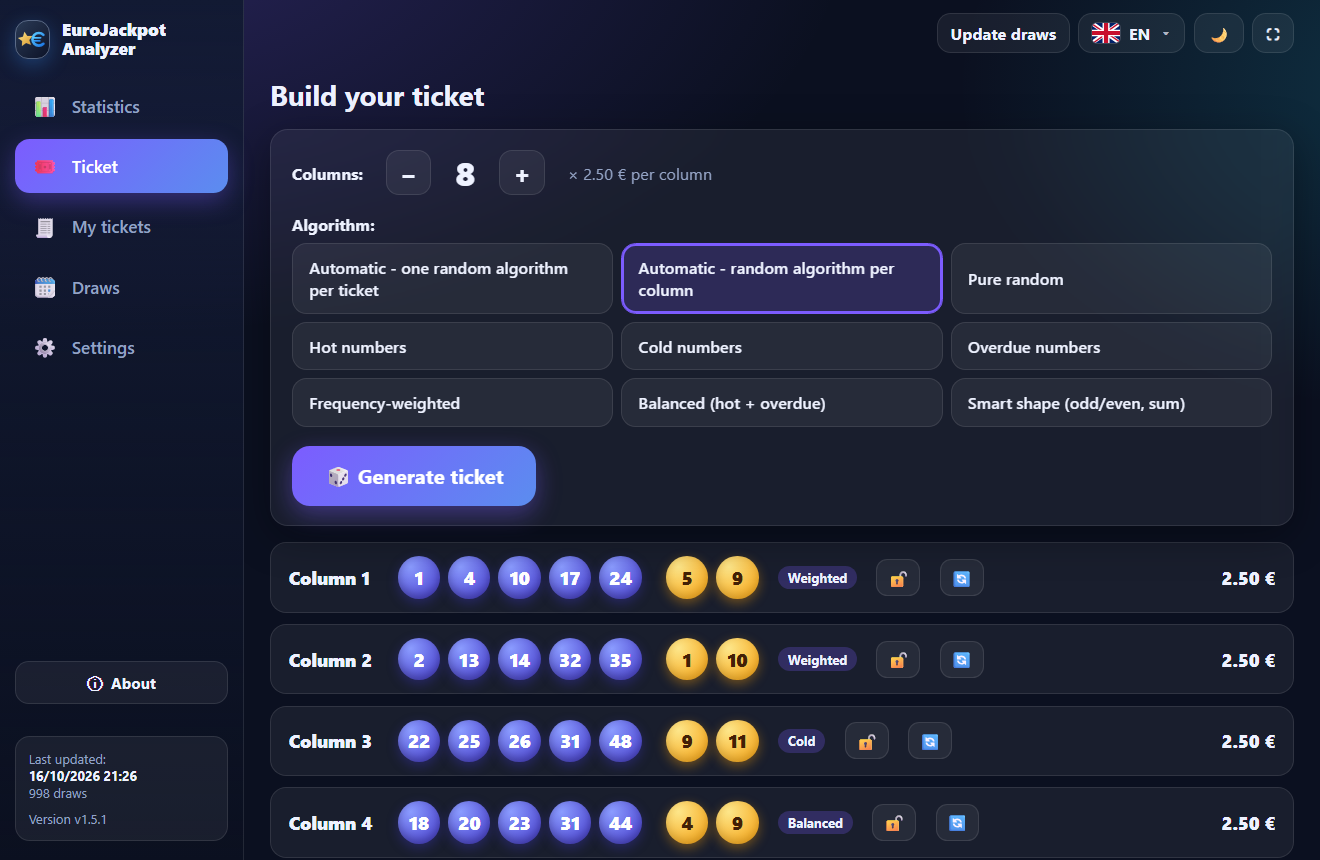
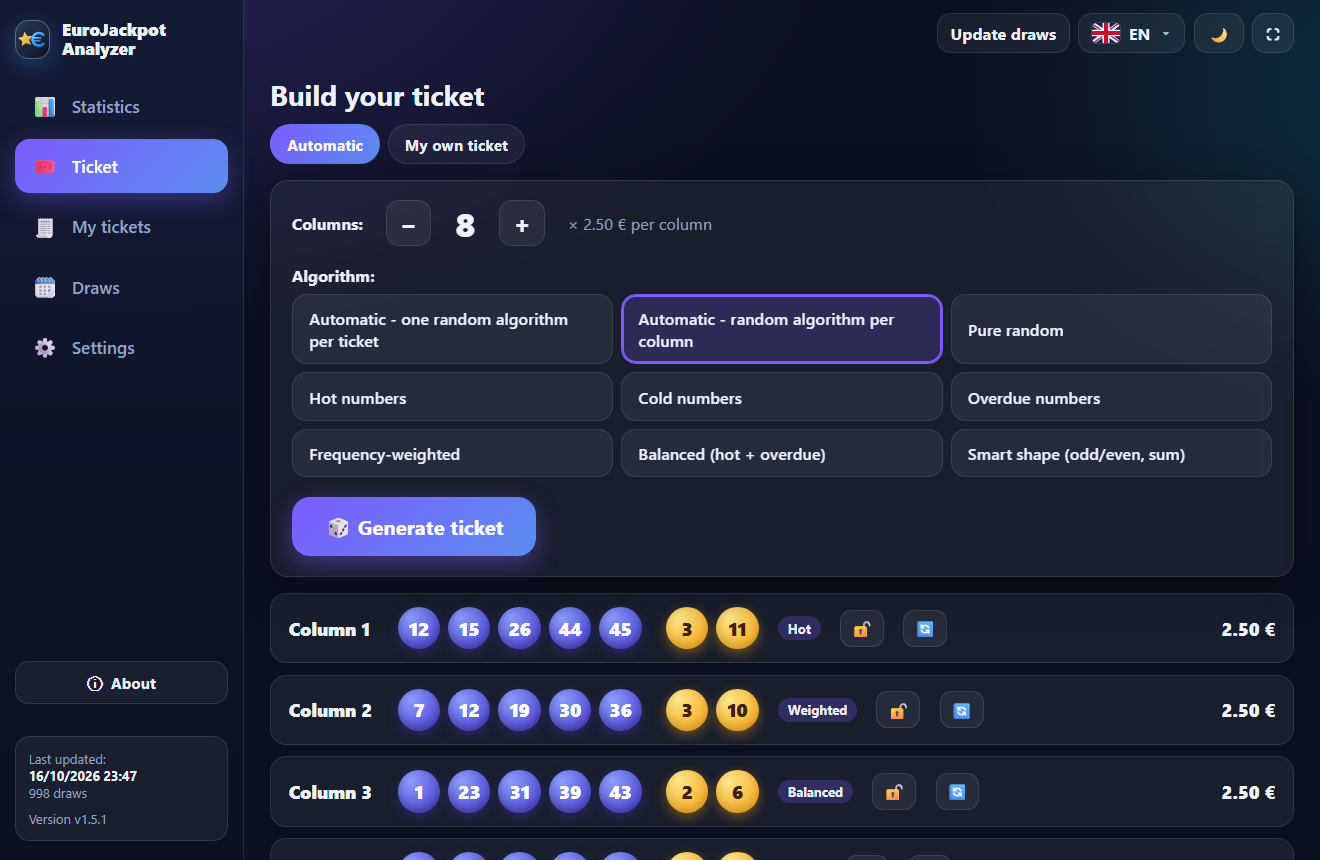
1.6.0: own ticket, analysis, ticket sync, Android in-app update; docs and screenshots

diff --git a/tools/sync_ha_core.py b/tools/sync_ha_core.py
@@ -1,4 +1,4 @@
-"""Copy the pure-Python core (rules, stats, generators) and a compact numbers-only history into the
+"""Copy the pure-Python core (rules, stats, generators, evaluation, analysis, ticket sync) and a compact numbers-only history into the
 Home Assistant integration repo, so both projects use identical logic.
 
 Usage:  python -m tools.sync_ha_core C:\\path\\to\\EuroJackpot-Analyzer-HA
@@ -11,7 +11,7 @@ import sys
 from pathlib import Path
 
 APP = Path(__file__).resolve().parent.parent / "app"
-CORE_FILES = ["rules.py", "stats.py", "generators.py"]
+CORE_FILES = ["rules.py", "stats.py", "generators.py", "evaluation.py", "analysis.py", "ticket_sync.py", "tls.py"]
 
 
 def main(ha_repo: str) -> None:
@@ -25,7 +25,13 @@ def main(ha_repo: str) -> None:
         (core / name).write_text("# Vendored copy of EuroJackpot-Analyzer/app/" + name + " - edit it there.\n" + text,
                                  encoding="utf-8")
     seed = json.loads((APP / "seed" / "draws.json").read_text(encoding="utf-8"))
-    compact = [[d["date"], d["main"], d["euro"]] for d in seed["draws"]]
+    compact = []
+    for d in seed["draws"]:
+        row = [d["date"], d["main"], d["euro"]]
+        prizes = {c["tier"]: c["prize"] for c in (d.get("details") or {}).get("classes", []) if c.get("prize", 0) > 0}
+        if prizes:                       # the prize per class: needed for the ticket results and the analysis
+            row.append(prizes)
+        compact.append(row)
     out = comp / "data" / "draws.json"
     out.parent.mkdir(parents=True, exist_ok=True)
     out.write_text(json.dumps({"version": 1, "draws": compact}, separators=(",", ":")), encoding="utf-8")

diff --git a/app/version.py b/app/version.py
@@ -1,7 +1,7 @@
 import os
 
 # EJP_VERSION_OVERRIDE: testing/docs only (e.g. pretend to be an older version to see the update screen)
-__version__ = os.environ.get("EJP_VERSION_OVERRIDE") or "1.5.1"
+__version__ = os.environ.get("EJP_VERSION_OVERRIDE") or "1.6.0"
 APP_NAME = "EuroJackpot Analyzer"
 # GitHub "owner/name" used for update checks (GitHub Releases). Empty = update check disabled.
 GITHUB_REPO = "VeZReVouLiS/EuroJackpot-Analyzer"

diff --git a/README.md b/README.md
@@ -9,6 +9,8 @@
 - δείχνει την **επόμενη κλήρωση με αντίστροφη μέτρηση**,
 - φτιάχνει δελτία 1-12 στηλών (τιμή ανά στήλη ανά χώρα, ρυθμιζόμενη) με 7 αλγορίθμους ή αυτόματη επιλογή,
 - **κρατά ιστορικό των δελτίων σου και τα ελέγχει αυτόματα μόλις βγει η κλήρωση**, με ποσό κέρδους και συνολικό αποτέλεσμα,
+- σου επιτρέπει να φτιάξεις **δικό σου δελτίο** και το **αναλύει** (πιθανότητες, αναμενόμενο κόστος και κέρδος, έλεγχος σε όλο το ιστορικό),
+- **συγχρονίζει τα δελτία** ανάμεσα στις συσκευές σου και στο Home Assistant (ιδιωτικό gist στο GitHub σου),
 - εξάγει/εισάγει τα δεδομένα σου (JSON, CSV) και ενημερώνεται από GitHub με ένα κλικ.
 
 Ελληνικά / English / Deutsch, σκούρο / ανοιχτό θέμα, παράθυρο ή πλήρης οθόνη (F11).
@@ -90,6 +92,24 @@
 5. Στο κάτω μέρος βλέπεις ότι το δελτίο **αποθηκεύτηκε στο ιστορικό** για την επόμενη κλήρωση (μπορείς να διαλέξεις άλλη ημερομηνία). Αν το παίξεις πραγματικά, πάτα **«Το έπαιξα»**.
    Όσο δεν το έχεις σημειώσει ως παιγμένο, ένα νέο «Δημιούργησε δελτίο» αντικαθιστά την πρόταση, χωρίς να γεμίζει το ιστορικό.
 
+#### Δικό μου δελτίο
+Στο πάνω μέρος της καρτέλας **Δελτίο** διάλεξε **«Δικό μου δελτίο»** αντί για «Αυτόματο». Εμφανίζεται πίνακας με τους αριθμούς 1-50 και 1-12:
+
+![Δικό μου δελτίο](docs/images/13-manual-ticket.png)
+
+1. Πάτα **5 αριθμούς** και **2 Euro αριθμούς**. Ο πίνακας δεν σε αφήνει να βάλεις περισσότερους.
+2. **Τυχαία συμπλήρωση** διαλέγει αριθμούς για σένα, **Καθαρισμός** αδειάζει την επιλογή. Πάτα **Προσθήκη στήλης**: η στήλη μπαίνει στη λίστα «Στήλες του δελτίου», όπου μπορείς να την επεξεργαστείς ή να τη διαγράψεις. Έως 12 στήλες.
+3. Πάτα **Αποθήκευση δελτίου**. Μπαίνει στα **Τα δελτία μου** για την επόμενη κλήρωση, και αν το παίξεις πραγματικά πάτα **«Το έπαιξα»**. Το **Ανάλυση και έλεγχος στο ιστορικό** ανοίγει την ανάλυση.
+
+#### Ανάλυση δελτίου
+Το κουμπί **Ανάλυση** (στο δικό σου δελτίο και σε κάθε δελτίο στα «Τα δελτία μου») ανοίγει:
+
+![Ανάλυση δελτίου](docs/images/14-analysis.png)
+
+- **Σύνολο δελτίου**: κόστος ανά κλήρωση, πιθανότητα για κάποιο βραβείο, πιθανότητα τζάκποτ (5 + 2) και **αναμενόμενο κέρδος** (χωρίς το τζάκποτ), με βάση τα πραγματικά βραβεία από το 2022. Οι πιθανότητες ανά κατηγορία είναι **ακριβείς** (υπολογίζονται μαθηματικά, όχι εκτίμηση).
+- **Κάθε στήλη**: στατιστικό προφίλ (συχνότητα και καθυστέρηση των αριθμών, μονοί/ζυγοί, χαμηλοί/υψηλοί, άθροισμα) και **έλεγχος ιστορικού**: σε πόσες από τις κληρώσεις από το 2012 θα είχε κερδίσει και πόσα συνολικά.
+- Είναι **στατιστική ενημέρωση και όχι πρόβλεψη**: η κλήρωση είναι τυχαία, κάθε στήλη έχει ακριβώς τις ίδιες πιθανότητες και το παρελθόν δεν προβλέπει το μέλλον. Αυτό γράφεται και μέσα στην ανάλυση.
+
 > Η κλήρωση είναι τυχαία. Τα στατιστικά είναι ενημερωτικά και δεν αυξάνουν τις πιθανότητες νίκης. Παίξε υπεύθυνα (18+).
 
 ### 6. Τα δελτία μου: ιστορικό και έλεγχος κερδών
@@ -102,6 +122,8 @@
 - **Φίλτρα**: Όλα, Έπαιξα, Εκκρεμούν, Με κέρδος. Με κλικ στην ημερομηνία ανοίγουν οι λεπτομέρειες της κλήρωσης.
 - Τα ποσά προέρχονται από τα πραγματικά κέρδη ανά επιτυχία της κλήρωσης. Η κατηγορία **1 + 1** (0,50 € add-on) πληρώνει 2,50 € και ισχύει μόνο για κληρώσεις από 8/3/2024.
 - Το ιστορικό δελτίων **περιλαμβάνεται στην εξαγωγή JSON** και φορτώνεται μαζί με τις κληρώσεις σε άλλο PC.
+- **Ανάλυση**: το κουμπί «Ανάλυση» σε κάθε δελτίο δείχνει πιθανότητες, αναμενόμενο κόστος/κέρδος και έλεγχο ιστορικού (βλ. παραπάνω).
+- **Συγχρονισμός** των δελτίων ανάμεσα στις συσκευές σου: βλ. «Συγχρονισμός δελτίων» στις Ρυθμίσεις.
 
 ### 7. Ρυθμίσεις: χώρα, γλώσσα, τιμή, θέμα, δεδομένα, εξαγωγή και εισαγωγή
 ![Ρυθμίσεις](docs/images/04-settings.png)
@@ -121,6 +143,15 @@
 - **Εισαγωγή από CSV / JSON**: επίλεξε αρχείο ή σύρε το στο πλαίσιο. Δέχεται τα αρχεία που εξάγει η ίδια η εφαρμογή και απλά CSV με ημερομηνία + 5 αριθμούς + 2 Euro. Οι κληρώσεις συγχωνεύονται χωρίς διπλότυπα.
 - **Έλεγχος σύνδεσης**: δοκιμάζει κάθε online πηγή χωριστά και δείχνει το σφάλμα. Με το «Αντιγραφή αναφοράς» μπορείς να το στείλεις για διάγνωση.
 - **Έλεγχος και εγκατάσταση νέας έκδοσης** (κάτω στη σελίδα, στην εικόνα παραπάνω): όταν υπάρχει νέα έκδοση φαίνονται οι αλλαγές της. Με το «Εγκατάσταση και επανεκκίνηση» κατεβάζει το νέο zip από το GitHub, ελέγχει το SHA-256, αντικαθιστά τα αρχεία (ο φάκελος `data` με τα δεδομένα και τα δελτία σου μένει ανέγγιχτος) και ξανανοίγει την εφαρμογή.
+
+#### Συγχρονισμός δελτίων
+Για να έχεις τα **ίδια δελτία** στον υπολογιστή, στο κινητό και στο Home Assistant, δες την ενότητα **Συγχρονισμός δελτίων** στις Ρυθμίσεις (στην εικόνα παραπάνω). Τα δελτία αποθηκεύονται σε ένα **ιδιωτικό gist** στον δικό σου λογαριασμό GitHub, χωρίς κανέναν άλλο server.
+
+1. Πάτα **«Δημιουργία token στο GitHub»** και συνδέσου. Η σελίδα ανοίγει με το δικαίωμα **gist** ήδη επιλεγμένο.
+2. Πάτα **Generate token** στο κάτω μέρος, αντίγραψε το token και **επικόλλησέ το** στην εφαρμογή. Πάτα **Σύνδεση**.
+3. Κάνε το ίδιο, με **το ίδιο token**, σε κάθε συσκευή (και στο Home Assistant, στις Επιλογές της ενσωμάτωσης).
+
+Από εκεί και πέρα κάθε αλλαγή σε δελτίο (νέο, «Το έπαιξα», διαγραφή) συγχρονίζεται μόνη της λίγα δευτερόλεπτα μετά, και στο άνοιγμα της εφαρμογής. Αν αλλάξεις το ίδιο δελτίο σε δύο συσκευές κερδίζει η πιο πρόσφατη αλλαγή. Το token μένει **μόνο στη συσκευή** και δίνει πρόσβαση μόνο σε gists. Μπορείς να το ακυρώσεις οποιαδήποτε στιγμή στο GitHub (Settings → Developer settings → Tokens).
 
 ### 8. Αν δεν δουλεύει η online ενημέρωση
 Η εφαρμογή **δεν μπλοκάρει**. Έχει ενσωματωμένο ιστορικό, οπότε ανοίγει πάντα με δεδομένα. Αν δεν υπάρχουν καθόλου δεδομένα, εμφανίζεται οθόνη όπου μπορείς να **φορτώσεις χειροκίνητα αρχείο κληρώσεων** (κουμπί ή drag & drop), να ξαναδοκιμάσεις ή να τρέξεις **Έλεγχο σύνδεσης**.
@@ -155,13 +186,16 @@
 1. Από τη σελίδα **Releases** κατέβασε το **`EuroJackpotApp-android.apk`**.
 2. Άνοιξέ το. Την πρώτη φορά το Android ζητά να επιτρέψεις **«Εγκατάσταση από αυτή την πηγή»** για τον browser ή τον διαχειριστή αρχείων που χρησιμοποιείς.
 3. Αν το Google Play Protect προειδοποιήσει για «άγνωστο εκδότη» (η εφαρμογή δεν είναι στο Play Store): **Περισσότερα → Εγκατάσταση ούτως ή άλλως**.
-4. **Ενημέρωση**: Ρυθμίσεις → Εφαρμογή → «Έλεγχος για νέα έκδοση». Όταν υπάρχει νέα, κατέβασε το νέο APK και εγκατέστησέ το πάνω στο παλιό. Τα δεδομένα μένουν.
+4. **Ενημέρωση μέσα από την εφαρμογή**: Ρυθμίσεις → Εφαρμογή → «Έλεγχος για νέα έκδοση». Όταν υπάρχει νέα, πάτα **«Εγκατάσταση και επανεκκίνηση»**: η εφαρμογή κατεβάζει το νέο APK, ελέγχει το SHA-256 και ανοίγει το παράθυρο εγκατάστασης του Android, όπου επιβεβαιώνεις. Την πρώτη φορά το Android ζητά να επιτρέψεις στην εφαρμογή να **εγκαθιστά ενημερώσεις** (ανοίγει η σωστή σελίδα ρυθμίσεων), και μετά ξαναπατάς το κουμπί. Τα δεδομένα μένουν.
 5. Αντίγραφο: Ρυθμίσεις → Εξαγωγή δεδομένων. Ανοίγει το παράθυρο κοινοποίησης, από όπου το αποθηκεύεις π.χ. στο Google Drive.
 6. Δεν θες APK; Άνοιξε τη διεύθυνση https://vezrevoulis.github.io/EuroJackpot-Analyzer/ στο **Chrome** και διάλεξε **⋮ → Προσθήκη στην αρχική οθόνη**.
 
 ![Η εφαρμογή σε Android](docs/images/phone-android.png)
 
-> Τα screenshots δείχνουν την εφαρμογή σε μέγεθος οθόνης iPhone και Android. Η εφαρμογή για κινητά κάνει όλα όσα και η εφαρμογή υπολογιστή, εκτός από την αυτόματη εγκατάσταση νέας έκδοσης μέσα από την ίδια την εφαρμογή (στο iPhone γίνεται μόνη της, στο Android με νέο APK).
+> Τα screenshots δείχνουν την εφαρμογή σε μέγεθος οθόνης iPhone και Android. Η εφαρμογή για κινητά κάνει όλα όσα και η εφαρμογή υπολογιστή, και η νέα έκδοση εγκαθίσταται μέσα από την εφαρμογή στα Android (στο iPhone ενημερώνεται μόνη της).
+
+### 12. Home Assistant
+Υπάρχει και **ενσωμάτωση για το Home Assistant** (HACS): πλαϊνός πίνακας, κάρτες για τον πίνακα ελέγχου, αισθητήρες, γεννήτρια και ανάλυση δελτίων, **ειδοποιήσεις** (νέα κλήρωση, υψηλό τζάκποτ, αποτέλεσμα των δελτίων σου) και τα ίδια δελτία με τις εφαρμογές μέσω του συγχρονισμού. Οδηγίες εγκατάστασης: **https://github.com/VeZReVouLiS/EuroJackpot-Analyzer-HA**
 
 ---
 

diff --git a/README.en.md b/README.en.md
@@ -9,6 +9,8 @@ An app for **Windows** (portable), **Mac**, **iPhone / iPad** and **Android** th
 - shows the **next draw with a countdown**,
 - builds tickets of 1-12 columns (price per column set per country, editable) with 7 algorithms or an automatic choice,
 - **keeps a history of your tickets and checks them automatically as soon as the draw is out**, with the prize amount and your overall result,
+- lets you build **your own ticket** and **analyses** it (odds, expected cost and prize, a check against the whole history),
+- **syncs your tickets** between your devices and Home Assistant (a private gist in your GitHub account),
 - exports/imports your data (JSON, CSV) and updates itself from GitHub with one click.
 
 Greek / English / German, dark / light theme, window or full screen (F11).
@@ -89,6 +91,24 @@ In the **Draws** menu you first see the **“Next draw”** box with the date an
 5. At the bottom you see that the ticket was **saved to your history** for the next draw (you can pick another date). If you really play it, press **“I played it”**.
    As long as it is not marked as played, generating again replaces the suggestion instead of filling the history.
 
+#### Your own ticket
+At the top of the **Ticket** tab choose **“My own ticket”** instead of “Automatic”. A board with the numbers 1-50 and 1-12 appears:
+
+![My own ticket](docs/images/13-manual-ticket-en.png)
+
+1. Tap **5 numbers** and **2 Euro numbers**. The board does not let you pick more.
+2. **Fill randomly** picks numbers for you, **Clear** empties the selection. Press **Add column**: the column goes into the list “Columns of the ticket”, where you can edit or delete it. Up to 12 columns.
+3. Press **Save ticket**. It goes into **My tickets** for the next draw, and if you really play it press **“I played it”**. **Analysis and history check** opens the analysis.
+
+#### Ticket analysis
+The **Analysis** button (on your own ticket and on every ticket in My tickets) opens:
+
+![Ticket analysis](docs/images/14-analysis-en.png)
+
+- **Whole ticket**: cost per draw, chance of some prize, jackpot chance (5 + 2) and the **expected prize** (without the jackpot), based on the real prizes since 2022. The odds per class are **exact** (calculated mathematically, not estimated).
+- **Every column**: a statistical profile (frequency and gap of the numbers, odd/even, low/high, sum) and a **history check**: in how many of the draws since 2012 it would have won and how much in total.
+- It is **statistics for information, not a prediction**: draws are random, every column has exactly the same chances and the past does not predict the future. The analysis says so too.
+
 > Draws are random. Statistics are informational and do not improve your odds. Play responsibly (18+).
 
 ### 6. My tickets: history and prize check
@@ -101,6 +121,8 @@ The **My tickets** tab lists every ticket you made, newest first:
 - **Filters**: All, Played, Pending, Winners. Click the date to open the draw details.
 - The amounts come from the real prizes of the draw. The **1 + 1** class (€0.50 add-on) pays €2.50 and exists only for draws since 8 March 2024.
 - The ticket history is **included in the JSON export** and loads together with the draws on another PC.
+- **Analysis**: the “Analysis” button on every ticket shows the odds, expected cost/prize and a history check (see above).
+- **Sync** of the tickets between your devices: see “Ticket sync” in Settings.
 
 ### 7. Settings: country, language, price, theme, data, export and import
 ![Settings](docs/images/04-settings-en.png)
@@ -120,6 +142,15 @@ The **country**, **language** (Greek / English / German) and **theme** (dark / l
 - **Import from CSV / JSON**: choose a file or drop it in the box. It accepts the files the app itself exports and plain CSV with date + 5 numbers + 2 Euro numbers. Draws are merged without duplicates.
 - **Connection check**: tests every online source separately and shows the error. “Copy report” lets you send it for diagnosis.
 - **Check and install a new version** (bottom of the page): when a new version exists its changes are shown. “Install and restart” downloads the new zip from GitHub, verifies the SHA-256, replaces the files (the `data` folder with your data and tickets is left untouched) and reopens the app.
+
+#### Ticket sync
+To have the **same tickets** on your computer, phone and Home Assistant, use the **Ticket sync** section in Settings (in the picture above). The tickets are stored in a **private gist** in your own GitHub account, with no other server involved.
+
+1. Press **“Create a token on GitHub”** and sign in. The page opens with the **gist** permission already selected.
+2. Press **Generate token** at the bottom, copy the token and **paste it** into the app. Press **Connect**.
+3. Do the same, with **the same token**, on every device (and in Home Assistant, in the options of the integration).
+
+From then on every change to a ticket (new, “I played it”, delete) syncs by itself a few seconds later, and when the app starts. If you change the same ticket on two devices the most recent change wins. The token stays **only on the device** and only gives access to gists. You can revoke it at any time on GitHub (Settings → Developer settings → Tokens).
 
 ### 8. If the online update does not work
 The app **never blocks**. It has the history built in, so it always opens with data. If there is no data at all, a screen appears where you can **load a draws file manually** (button or drag & drop), try again or run the **Connection check**.
@@ -154,13 +185,16 @@ The same app also works on your phone, with no account: statistics, ticket gener
 1. From the **Releases** page download **`EuroJackpotApp-android.apk`**.
 2. Open it. The first time Android asks you to allow **“Install from this source”** for the browser or file manager you used.
 3. If Google Play Protect warns about an “unknown developer” (the app is not on the Play Store): **More details → Install anyway**.
-4. **Updating**: Settings → Application → “Check for new version”. When there is one, download the new APK and install it over the old one. Your data stays.
+4. **Updating from inside the app**: Settings → Application → “Check for new version”. When there is one, press **“Install and restart”**: the app downloads the new APK, verifies the SHA-256 and opens the Android installer, where you confirm. The first time Android asks you to allow the app to **install updates** (it opens the right settings page), then you press the button again. Your data stays.
 5. Backup: Settings → Export data. The share sheet opens, where you can save the file e.g. to Google Drive.
 6. Do not want an APK? Open https://vezrevoulis.github.io/EuroJackpot-Analyzer/ in **Chrome** and choose **⋮ → Add to Home screen**.
 
 ![The app on an Android phone](docs/images/phone-android-en.png)
 
-> The screenshots show the app at iPhone and Android screen sizes. The phone app does everything the desktop app does, except installing a new version from inside the app (on the iPhone it updates by itself, on Android you install a new APK).
+> The screenshots show the app at iPhone and Android screen sizes. The phone app does everything the desktop app does, and the new version installs from inside the app on Android (on the iPhone it updates by itself).
+
+### 12. Home Assistant
+There is also a **Home Assistant integration** (HACS): sidebar panel, dashboard cards, sensors, ticket generator and analysis, **notifications** (new draw, high jackpot, the result of your tickets) and the same tickets as the apps through the sync. Installation guide: **https://github.com/VeZReVouLiS/EuroJackpot-Analyzer-HA**
 
 ---
 

diff --git a/PROGRESS.md b/PROGRESS.md
@@ -1,8 +1,10 @@
 # Progress
 
 ## >>> ΠΟΥ ΕΧΟΥΜΕ ΜΕΙΝΕΙ (συνέχεια από το σπίτι) <<<
-App: https://github.com/VeZReVouLiS/EuroJackpot-Analyzer — release **v1.5.0**: Windows zip, Mac zips (arm64/intel), **Android APK**, και **web app (PWA) στο GitHub Pages**: https://vezrevoulis.github.io/EuroJackpot-Analyzer/ (iPhone: Safari → Προσθήκη στην οθόνη Αφετηρίας).
-Home Assistant: https://github.com/VeZReVouLiS/EuroJackpot-Analyzer-HA — release **v0.4.3**, εγκατεστημένο στο ha.dosman.gr.
+App: https://github.com/VeZReVouLiS/EuroJackpot-Analyzer — release **v1.6.0**: Windows zip, Mac zips (arm64/intel), **Android APK**, και **web app (PWA) στο GitHub Pages**: https://vezrevoulis.github.io/EuroJackpot-Analyzer/ (iPhone: Safari → Προσθήκη στην οθόνη Αφετηρίας).
+Home Assistant: https://github.com/VeZReVouLiS/EuroJackpot-Analyzer-HA — release **v0.5.0**, εγκατεστημένο στο ha.dosman.gr.
+
+**v1.6.0 / HA 0.5.0:** δικό μου δελτίο (picker), ανάλυση (`app/analysis.py` + `web/core.js`: ακριβείς πιθανότητες, αναμενόμενο κέρδος, προφίλ, έλεγχος ιστορικού), συγχρονισμός δελτίων μέσω ιδιωτικού gist (`app/ticket_sync.py` + `webapi.js`, merge last-updated-wins + tombstones), Android in-app update (`web/android-native/ApkInstallerPlugin.java`, `android.yml`), HA: ειδοποιήσεις/events (`eurojackpot_analyzer_new_draw|jackpot_alert|ticket_result`), κάρτα «Τα δελτία μου», υπηρεσίες `analyze_ticket`/`sync_tickets`, About στο panel. Τα HA tests τρέχουν και τοπικά (βλ. memory ha-local-tests).
 
 **Κινητά (v1.4.0):** `web/core.js` (πύλη Python→JS: rules, stats, generators, evaluation, importer, exporter), `web/webapi.js` (το api.py στον browser, IndexedDB μέσω `web/store.js`), `web/boot.js` (+ service worker), `tools/build_site.py` → `site/` (UI + web/ + κληρώσεις + manifest + sw.js), `tools/update_web_data.py` (νέες κληρώσεις), `tools/make_golden.py` + `web/tests/` (ισοδυναμία Python↔JS: `node --test web/tests/core.test.mjs` στο CI, ή `web/tests/run.html` σε browser). Workflows: `web.yml` (tests + deploy Pages, κάθε πρωί 06:15 UTC και Τρί/Παρ 19:30–22:30 UTC), `android.yml` (Capacitor 7 → APK, υπογραφή από secrets, upload στο release), `mac.yml`, `android-keystore.yml` (έτρεξε μία φορά). Το keystore του Android υπάρχει ΜΟΝΟ ως secrets `ANDROID_KEYSTORE_B64` / `ANDROID_KEYSTORE_PASSWORD` + αντίγραφο στο `C:\Users\DimitrisSarlis\Projects\_secrets_eurojackpot` (εκτός git· κράτα αντίγραφο, αλλιώς οι ενημερώσεις APK θέλουν απεγκατάσταση).
 UI κινητού: κάτω μενού ≤760px, `--safe-top/--safe-bottom`, hash `#safe=50` και `#static=1` για screenshots, `#demo=1` δημιουργεί demo δελτία. Screenshots κινητού: `scratchpad/cdp_shots.py` (Edge DevTools, 390x844 / 412x915 @2x) → `docs/images/phone-iphone(-en).png`, `phone-android(-en).png`.

diff --git a/CHANGELOG.md b/CHANGELOG.md
@@ -1,5 +1,13 @@
 # Changelog
 
+## 1.6.0
+- **Δικό μου δελτίο**: στο «Δελτίο» διάλεξε μόνος σου τους αριθμούς (1-12 στήλες, 5 + 2) από πίνακα με τα νούμερα, με «Τυχαία» και «Καθαρισμός» ανά στήλη.
+- **Ανάλυση δελτίου** (κουμπί «Ανάλυση» σε κάθε δελτίο): ακριβείς πιθανότητες ανά κατηγορία, κόστος, αναμενόμενο κέρδος, στατιστικό προφίλ κάθε στήλης και **έλεγχος ιστορικού** (τι θα είχε κερδίσει σε όλες τις κληρώσεις από το 2012). Είναι στατιστική ενημέρωση, όχι πρόβλεψη: κάθε στήλη έχει τις ίδιες πιθανότητες.
+- **Συγχρονισμός δελτίων** μεταξύ υπολογιστή, κινητού και Home Assistant, μέσω ιδιωτικού gist του δικού σου GitHub (Ρυθμίσεις → Συγχρονισμός δελτίων).
+- **Android**: η νέα έκδοση κατεβαίνει και εγκαθίσταται μέσα από την εφαρμογή (έλεγχος SHA-256, επιβεβαιώνεις στο παράθυρο του Android).
+- Home Assistant 0.5.0: ειδοποιήσεις (νέα κλήρωση, τζάκποτ, αποτέλεσμα δελτίων), κάρτα «Τα δελτία μου», υπηρεσία ανάλυσης και κουμπί «Σχετικά» (δες το [repo του Home Assistant](https://github.com/VeZReVouLiS/EuroJackpot-Analyzer-HA)).
+- Bug fixes / μικρές διορθώσεις
+
 ## 1.5.1
 - Bug fixes / μικρές διορθώσεις
 
